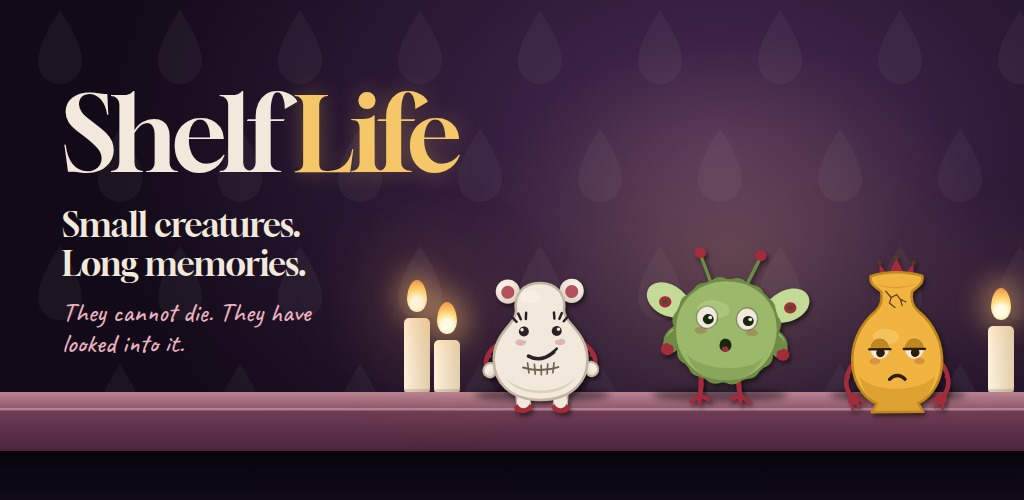
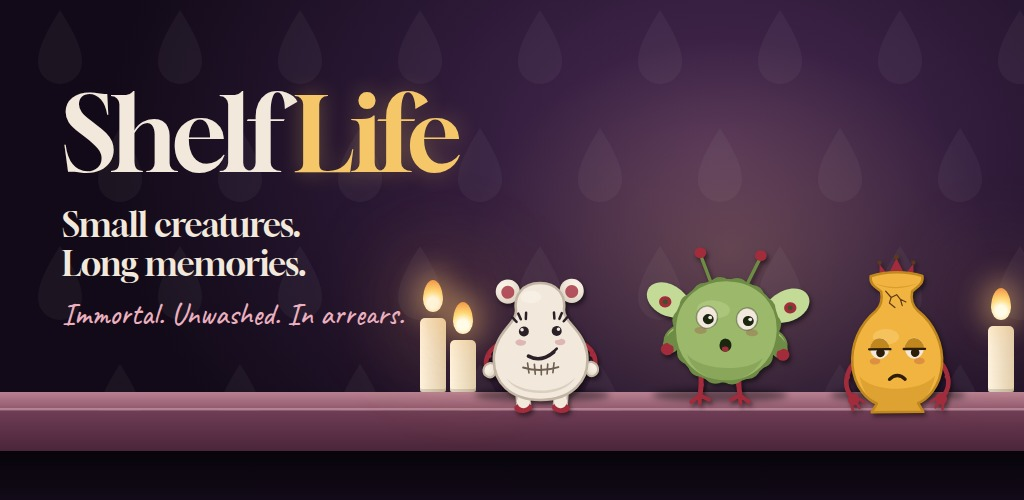
Use the cabinet's motto as the tagline
"Immortal. Unwashed. In arrears." is already on the brass plaque under the
cabinet, so the feature graphic, the README and the manifest description
now repeat the game's own line instead of "They cannot die. They have
looked into it." The in-game note that uses the old joke is unchanged.

Claude-Session: https://claude.ai/code/session_01UjB5DCiTkcZAPUy3Gq59Fp

Changed region(s): [[0.0625, 0.54, 0.5, 0.78]]

diff --git a/README.md b/README.md
@@ -4,7 +4,7 @@
 
 Small creatures. Long memories. A free, darkly comic creature game for phones and desktops.
 Make peculiar residents, look after them, play together and collect the evidence of a small life.
-They cannot die. They have looked into it.
+Immortal. Unwashed. In arrears.
 
 ## Something has gone wrong
 
